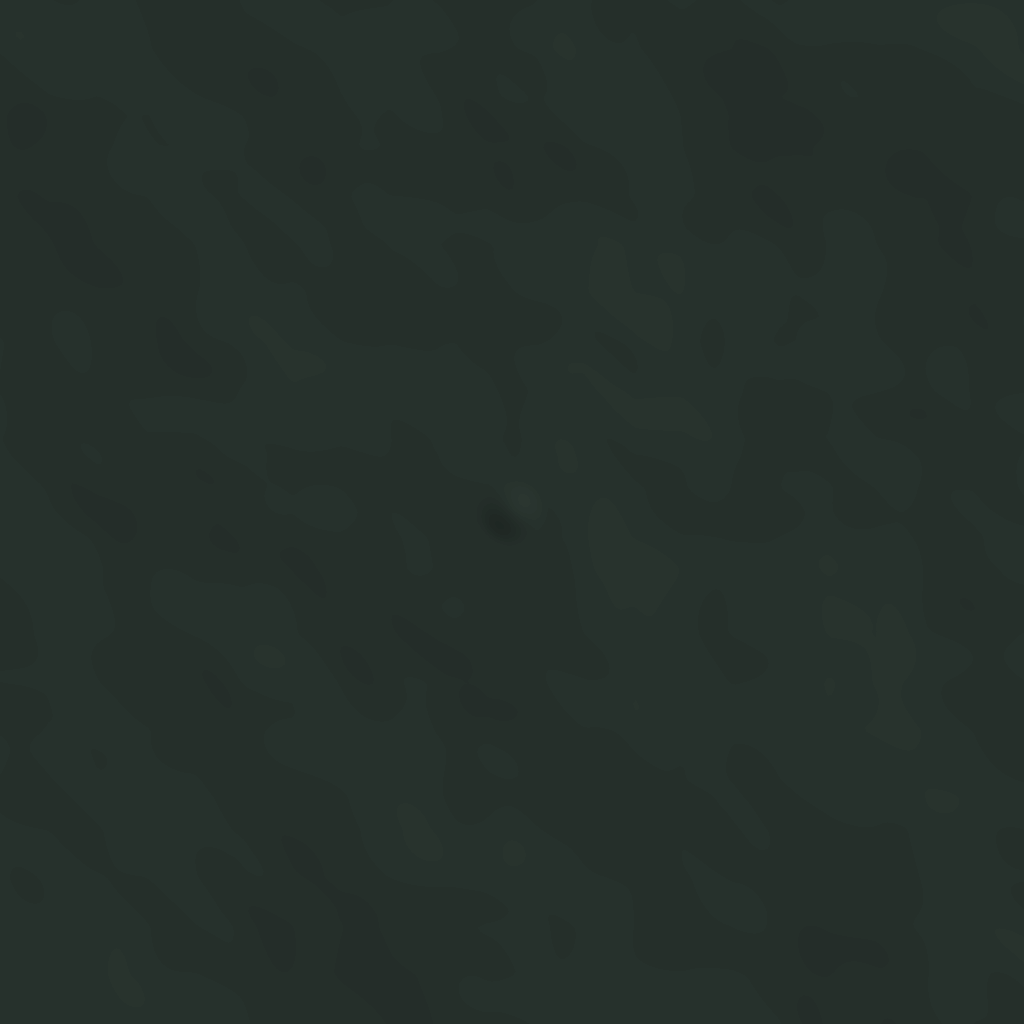
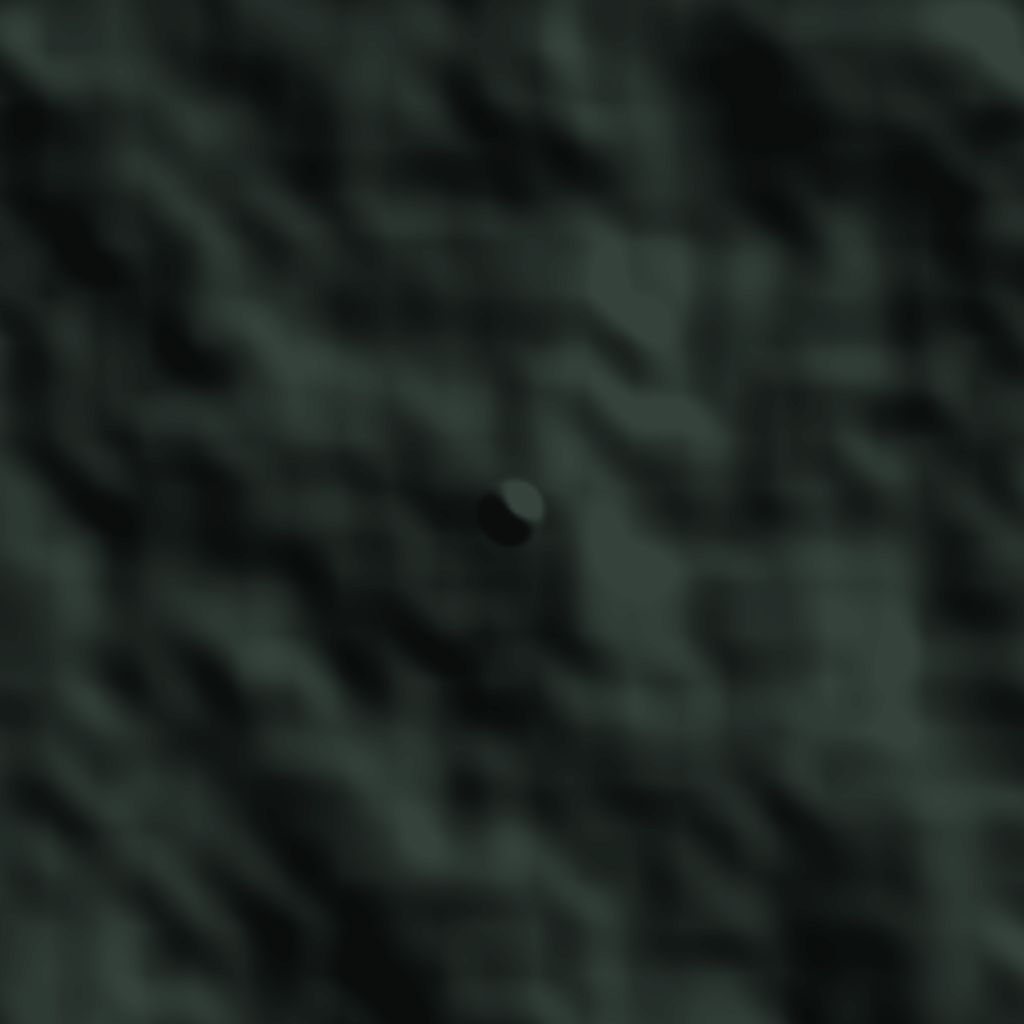
feat(web): briefing labels avoid zones, procedural thumbnails, Generate secondary (P2-2, P2-3); 6B checkpoint spec

diff --git a/apps/web/e2e/checkpoint-6b.spec.ts b/apps/web/e2e/checkpoint-6b.spec.ts
@@ -1,0 +1,97 @@
+import { expect, test, type Page } from '@playwright/test';
+import { login, openBriefing } from './helpers';
+
+// Phase 6B Checkpoint B (tags @checkpoint @cp6b), written to e2e/checkpoint/6b/
+// (git-ignored), at 1366×768 and 1920×1080. Works on a production build
+// (E2E_BASE_URL) or the dev server. Screens changed in 6B that capture-all.spec.ts
+// does not reach in the state that matters:
+//  01  /train: S01–S03 thumbnails, Generate secondary
+//  02  briefing S06: RELAY SITE label clear of the zone (P2-3)
+//  03  briefing S05: interceptor ring label clear of Z2 (P2-3)
+//  04  briefing S01: procedural-hills map
+//  05  builder, Place asset active: hint on the map (P1-17)
+//  06  builder, zone being drawn
+//  07  builder, invalid swarm size: inline error
+
+const OUT = 'e2e/checkpoint/6b';
+const SIZES = [
+  { width: 1366, height: 768 },
+  { width: 1920, height: 1080 },
+] as const;
+
+async function shot(page: Page, name: string, full = false) {
+  await page.addStyleTag({ content: 'nextjs-portal { display: none !important; }' });
+  await page.waitForTimeout(300);
+  const size = page.viewportSize();
+  await page.screenshot({
+    path: `${OUT}/${size?.width}x${size?.height}-${name}.png`,
+    fullPage: full,
+  });
+}
+
+async function coverageReady(page: Page) {
+  await expect(page.getByTestId('coverage-status')).toHaveText(/^LOS coverage ·/, {
+    timeout: 120_000,
+  });
+  await page.waitForTimeout(400);
+}
+
+for (const size of SIZES) {
+  test.describe(`${size.width}x${size.height}`, () => {
+    test.use({ viewport: size });
+
+    test(`training list @checkpoint @cp6b`, async ({ page }) => {
+      await login(page, 'trainee1@demo');
+      await page.goto('/train');
+      await expect(page.getByTestId('scenario-S01')).toBeVisible({ timeout: 60_000 });
+      await shot(page, '01-train');
+    });
+
+    for (const [n, code] of [
+      ['02', 'S06'],
+      ['03', 'S05'],
+      ['04', 'S01'],
+    ] as const) {
+      test(`briefing ${code} @checkpoint @cp6b`, async ({ page }) => {
+        test.setTimeout(240_000);
+        await login(page, 'trainee1@demo');
+        await openBriefing(page, code);
+        await coverageReady(page);
+        await shot(page, `${n}-briefing-${code}`);
+      });
+    }
+
+    test(`builder tools @checkpoint @cp6b`, async ({ page }) => {
+      test.setTimeout(180_000);
+      await login(page, 'instructor@demo');
+      await page.goto('/instructor/builder');
+      const map = page.getByTestId('briefing-map');
+      await expect(map).toBeVisible({ timeout: 120_000 });
+      await expect(page.getByTestId('builder-status')).toHaveText('Checks passed', {
+        timeout: 60_000,
+      });
+      await page.getByRole('button', { name: 'Place asset' }).click();
+      await expect(page.getByTestId('map-tool-hint')).toContainText('Esc cancels');
+      await shot(page, '05-builder-asset-tool');
+      await page.keyboard.press('Escape');
+      await expect(page.getByTestId('map-tool-hint')).toBeHidden();
+
+      await page.getByRole('button', { name: 'Draw no-kinetic zone' }).click();
+      const box = (await map.boundingBox())!;
+      for (const [fx, fy] of [
+        [0.6, 0.3],
+        [0.75, 0.3],
+        [0.75, 0.42],
+      ] as const)
+        await page.mouse.click(box.x + box.width * fx, box.y + box.height * fy);
+      await expect(page.getByTestId('map-tool-hint')).toContainText('3 placed');
+      await shot(page, '06-builder-zone-draft');
+      await page.keyboard.press('Escape');
+
+      await page.getByLabel('Swarm size').fill('80');
+      await expect(page.getByText('A whole number from 1 to 50')).toBeVisible();
+      await expect(page.getByTestId('builder-save')).toBeDisabled();
+      await shot(page, '07-builder-field-error');
+    });
+  });
+}

diff --git a/apps/web/components/briefing/briefing-map.tsx b/apps/web/components/briefing/briefing-map.tsx
@@ -11,6 +11,7 @@ import {
 } from '@/lib/briefing/coverage';
 import type { CoverageState } from '@/lib/briefing/use-coverage';
 import { UI, ZONES } from '@/lib/theme/scene-colours';
+import { bbox, placeLabel, type Rect } from '@/lib/briefing/label-place';
 import { BriefingLegend, LEGEND_H } from './briefing-legend';
 
 // Briefing map (DESIGN §11.4): the preset's hillshade with buildings (map.png),
@@ -125,10 +126,14 @@ export function BriefingMap({
       }
     }
 
+    // Zone outlines and placed labels: later labels move off them (audit P2-3).
+    const taken: Rect[] = [];
+
     // Zones: no-kinetic hatched and outlined, the border dashed.
     for (const z of scenario.zones) {
       if (z.kind === 'NO_KINETIC') {
         const pts = z.polygon.map(([x, zz]) => [X(x), Y(zz)] as const);
+        taken.push(bbox(pts));
         g.save();
         g.beginPath();
         pts.forEach(([x, y], i) => (i ? g.lineTo(x, y) : g.moveTo(x, y)));
@@ -154,6 +159,7 @@ export function BriefingMap({
         g.fillStyle = ZONES.label;
         g.font = `600 11px ${cond}`;
         g.fillText(z.id, left + 2, top - 3);
+        taken.push({ x: left + 2, y: top - 14, w: g.measureText(z.id).width, h: 12 });
       } else if (z.kind === 'BORDER_LINE') {
         g.strokeStyle = ZONES.border;
         g.lineWidth = 1.5;
@@ -183,7 +189,24 @@ export function BriefingMap({
       g.setLineDash([]);
       g.fillStyle = UI.text2;
       g.font = `500 11px ${mono}`;
-      g.fillText(label, X(x) + 3, Y(z) - r * k - 3);
+      // Above the ring, else beside it at either side, else below.
+      const w = g.measureText(label).width;
+      const cx = X(x);
+      const cy = Y(z);
+      const rp = r * k;
+      const at = placeLabel(
+        [
+          { x: cx + 3, y: cy - rp - 14, w, h: 12 },
+          { x: cx - w - 3, y: cy - rp - 14, w, h: 12 },
+          { x: cx + rp * 0.71 + 3, y: cy - rp * 0.71 - 12, w, h: 12 },
+          { x: cx - rp * 0.71 - w - 3, y: cy - rp * 0.71 - 12, w, h: 12 },
+          { x: cx + 3, y: cy + rp + 3, w, h: 12 },
+        ],
+        taken,
+        px,
+      );
+      taken.push(at);
+      g.fillText(label, at.x, at.y + 11);
     };
     for (const s of scenario.sensors) {
       if (s.kind === 'RADAR')
@@ -212,9 +235,25 @@ export function BriefingMap({
       g.strokeStyle = UI.select;
       g.lineWidth = 2;
       g.strokeRect(x - 6, y - 6, 12, 12);
-      g.fillStyle = UI.text1;
       g.font = `600 12px ${cond}`;
-      g.fillText(a.name.toUpperCase(), x + 10, y + 4);
+      const name = a.name.toUpperCase();
+      const w = g.measureText(name).width;
+      // Right of the square, else left, below or above, clear of zones (S06 relay site).
+      const at = placeLabel(
+        [
+          { x: x + 10, y: y - 8, w, h: 13 },
+          { x: x - 10 - w, y: y - 8, w, h: 13 },
+          { x: x - w / 2, y: y + 9, w, h: 13 },
+          { x: x - w / 2, y: y - 22, w, h: 13 },
+        ],
+        taken,
+        px,
+      );
+      taken.push(at);
+      g.fillStyle = hexToRgba(UI.bg0, 0.7);
+      g.fillRect(at.x - 2, at.y - 1, w + 4, 15);
+      g.fillStyle = UI.text1;
+      g.fillText(name, at.x, at.y + 11);
     }
 
     // Intel axis: from the map edge toward the first asset.

diff --git a/scripts/hillshade/gen-hillshade.ts b/scripts/hillshade/gen-hillshade.ts
@@ -221,6 +221,17 @@ export function crop(rgb: Uint8Array, size: number, width: number, height: numbe
   return out;
 }
 
+/** Rescale shade in place so its 2nd–98th percentiles span 0..1. */
+export function stretchShade(shade: Float32Array): void {
+  const sorted = Float32Array.from(shade).sort();
+  const lo = sorted[Math.floor(sorted.length * 0.02)] ?? 0;
+  const hi = sorted[Math.floor(sorted.length * 0.98)] ?? 1;
+  const span = Math.max(hi - lo, 1e-6);
+  for (let i = 0; i < shade.length; i++) {
+    shade[i] = Math.min(1, Math.max(0, ((shade[i] ?? 0) - lo) / span));
+  }
+}
+
 /** thumb.png and map.png for one preset folder. */
 export function presetImages(presetDir: string): { map: Buffer; thumb: Buffer } {
   const { meta, h } = readHeights(presetDir);
@@ -251,15 +262,20 @@ export function proceduralImages(): { map: Buffer; thumb: Buffer } {
     relMaxM: hi,
     sizeM: map.sizeM,
   };
-  return images(meta, Float32Array.from(map.heights), []);
+  // Smooth hills with no buildings read as a blank tile at thumbnail size: exaggerate
+  // the relief and stretch the shade to its own range (audit P2-2).
+  return images(meta, Float32Array.from(map.heights), [], 2, true);
 }
 
 function images(
   meta: Meta,
   h: Float32Array,
   rings: (readonly (readonly [number, number])[])[],
+  zBoost = 1,
+  stretch = false,
 ): { map: Buffer; thumb: Buffer } {
-  const shade = hillshade(meta, h, zFactorFor(meta));
+  const shade = hillshade(meta, h, zFactorFor(meta) * zBoost);
+  if (stretch) stretchShade(shade);
   const tone = TONES.map;
   const image = (size: number) => {
     const rgb = toRgb(shade, meta.resolution, size, tone.dark, tone.light, tone.gamma, tone.levels);

diff --git a/apps/web/test/phase6b.test.ts b/apps/web/test/phase6b.test.ts
@@ -2,6 +2,7 @@ import type { TrendPoint } from '@vyuh/shared';
 import { describe, expect, it } from 'vitest';
 import { difficultyRuns } from '@/lib/aar/answers';
 import { fieldErrors } from '@/lib/builder/field-errors';
+import { bbox, placeLabel } from '@/lib/briefing/label-place';
 import { nextStep } from '@/lib/hud/next-step';
 import {
   azimuthBehind,
@@ -203,5 +204,28 @@ describe('builder field errors (audit P1-17)', () => {
     expect(fieldErrors({ name: '  ', swarmSize: '8' }).name).toBe('Give the scenario a name.');
     for (const bad of ['0', '51', '2.5', 'abc'])
       expect(fieldErrors({ name: 'x', swarmSize: bad }).swarmSize).toMatch(/1 to 50/);
+  });
+});
+
+describe('briefing label placement (audit P2-3)', () => {
+  const zone = bbox([
+    [100, 100],
+    [200, 100],
+    [200, 160],
+    [100, 160],
+  ]);
+  const right = { x: 150, y: 120, w: 60, h: 12 };
+  const left = { x: 20, y: 120, w: 60, h: 12 };
+  it('skips a candidate over a zone', () => {
+    expect(placeLabel([right, left], [zone], 400)).toBe(left);
+  });
+  it('keeps the first clear candidate and never leaves the map', () => {
+    expect(placeLabel([left, right], [zone], 400)).toBe(left);
+    const off = { x: 380, y: 10, w: 60, h: 12 };
+    expect(placeLabel([off, right], [], 400)).toBe(right);
+  });
+  it('falls back to the least overlap', () => {
+    const half = { x: 170, y: 120, w: 60, h: 12 };
+    expect(placeLabel([right, half], [zone], 400)).toBe(half);
   });
 });

diff --git a/apps/web/lib/briefing/label-place.ts b/apps/web/lib/briefing/label-place.ts
@@ -1,0 +1,42 @@
+// Briefing map label placement (audit P2-3): a label takes the first candidate
+// position that stays inside the map and clear of the zones and the labels drawn
+// before it; if none is clear, the one with the least overlap.
+
+export interface Rect {
+  x: number;
+  y: number;
+  w: number;
+  h: number;
+}
+
+const overlap = (a: Rect, b: Rect) =>
+  Math.max(0, Math.min(a.x + a.w, b.x + b.w) - Math.max(a.x, b.x)) *
+  Math.max(0, Math.min(a.y + a.h, b.y + b.h) - Math.max(a.y, b.y));
+
+export function placeLabel(
+  candidates: readonly Rect[],
+  obstacles: readonly Rect[],
+  size: number,
+): Rect {
+  let best = candidates[0]!;
+  let bestCost = Infinity;
+  for (const c of candidates) {
+    const outside = c.x < 0 || c.y < 0 || c.x + c.w > size || c.y + c.h > size;
+    const cost = obstacles.reduce((s, o) => s + overlap(c, o), 0) + (outside ? 1e6 : 0);
+    if (cost === 0) return c;
+    if (cost < bestCost) {
+      best = c;
+      bestCost = cost;
+    }
+  }
+  return best;
+}
+
+/** Bounding box of a polygon in screen pixels. */
+export function bbox(pts: readonly (readonly [number, number])[]): Rect {
+  const xs = pts.map((p) => p[0]);
+  const ys = pts.map((p) => p[1]);
+  const x = Math.min(...xs);
+  const y = Math.min(...ys);
+  return { x, y, w: Math.max(...xs) - x, h: Math.max(...ys) - y };
+}

diff --git a/apps/web/components/training/generate-panel.tsx b/apps/web/components/training/generate-panel.tsx
@@ -223,8 +223,9 @@ export function GeneratePanel({ role }: { role: UserRole }) {
           side="bottom"
           className="flex w-full"
         >
+          {/* Secondary: choosing a scenario from the list is the page's main act (audit P2-2). */}
           <Button
-            variant="primary"
+            variant="secondary"
             className="w-full"
             disabled={disabledReason !== null}
             onClick={() => void generate()}

diff --git a/apps/web/app/instructor/builder/page.tsx b/apps/web/app/instructor/builder/page.tsx
@@ -120,7 +120,7 @@ function Field({
       <span className="text-label">{label}</span>
       {children}
       {error && (
-        <span className="block text-small text-warn" role="alert">
+        <span className="block text-small text-crit" role="alert">
           {error}
         </span>
       )}

diff --git a/docs/plans/phase6b-progress.md b/docs/plans/phase6b-progress.md
@@ -76,10 +76,18 @@ Committed as `30272fa` (typecheck, lint, 24 files / 200 web tests green).
 - Briefing legend names the no-kinetic zones ("No-kinetic · Z1 village, Z2 school"). The instructor note already shows as a briefing section, so the legend does not repeat it.
 - Not captured yet with a tool active — add to `checkpoint-6b.spec.ts`. "Preview without jank" not touched (the map keeps the last good preview already).
 
+## Briefing and training list (2026-10-25, P2-2, P2-3)
+
+- `lib/briefing/label-place.ts` (`placeLabel`, `bbox`, tested): ring labels and the asset name take the first candidate clear of zone boxes and earlier labels; the asset name gets a `--bg-0` plate. S06 RELAY SITE moved off the hatching; S05 INT label clear of Z2.
+- PROCEDURAL_HILLS thumb / map regenerated with 2× relief and a stretched shade (`scripts/hillshade/gen-hillshade.ts`, `stretchShade`; the other presets regenerate byte-identical).
+- Generate button secondary.
+- Builder field errors use `--crit` like the invalid input border.
+- `e2e/checkpoint-6b.spec.ts` started (`@cp6b`, out `e2e/checkpoint/6b/`): training list, briefings S06 / S05 / S01, builder asset tool, zone draft, field error. Passes at 1366 on a production build; captures reviewed.
+
 ## Still to do in 6B (from the plan, in order)
 
 2. Player: disabled reasons and title hovers checked in the break-ui pass. (Aids labelled: spectrogram "Aid · confirm on camera"; the AI chip tooltip already says it can be wrong.)
-4. Briefing labels (P2-3) + S01–S03 thumbnails + Generate secondary (P2-2), weight editor / From text copy (P1-9) and "/10" wording.
+4. Weight editor / From text copy (P1-9) and "/10" wording.
 5. Apply 6A primitives everywhere (Tabs, SegmentedControl, Table, PageHeader, ErrorState); one primary action per screen; keyboard focus order.
 6. Load `emil-design-eng` before the polish, `break-ui` before stress-testing; write the break-ui report.
 7. Checkpoint B: `checkpoint-6b.spec.ts` captures of every 6B screen at 1366×768 and 1920×1080 + break-ui report + FPS before / after → **stop for the user's OK**.
